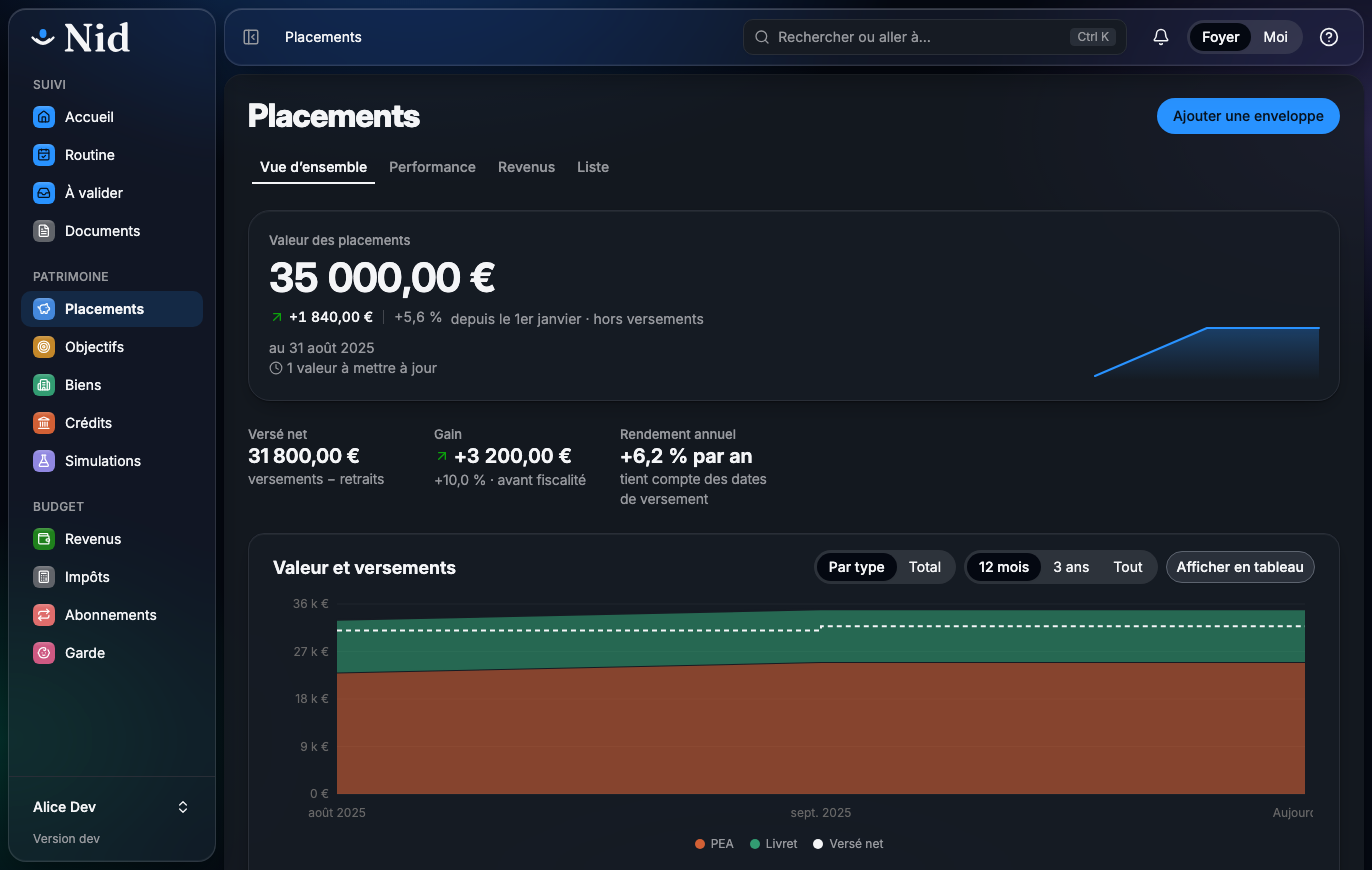
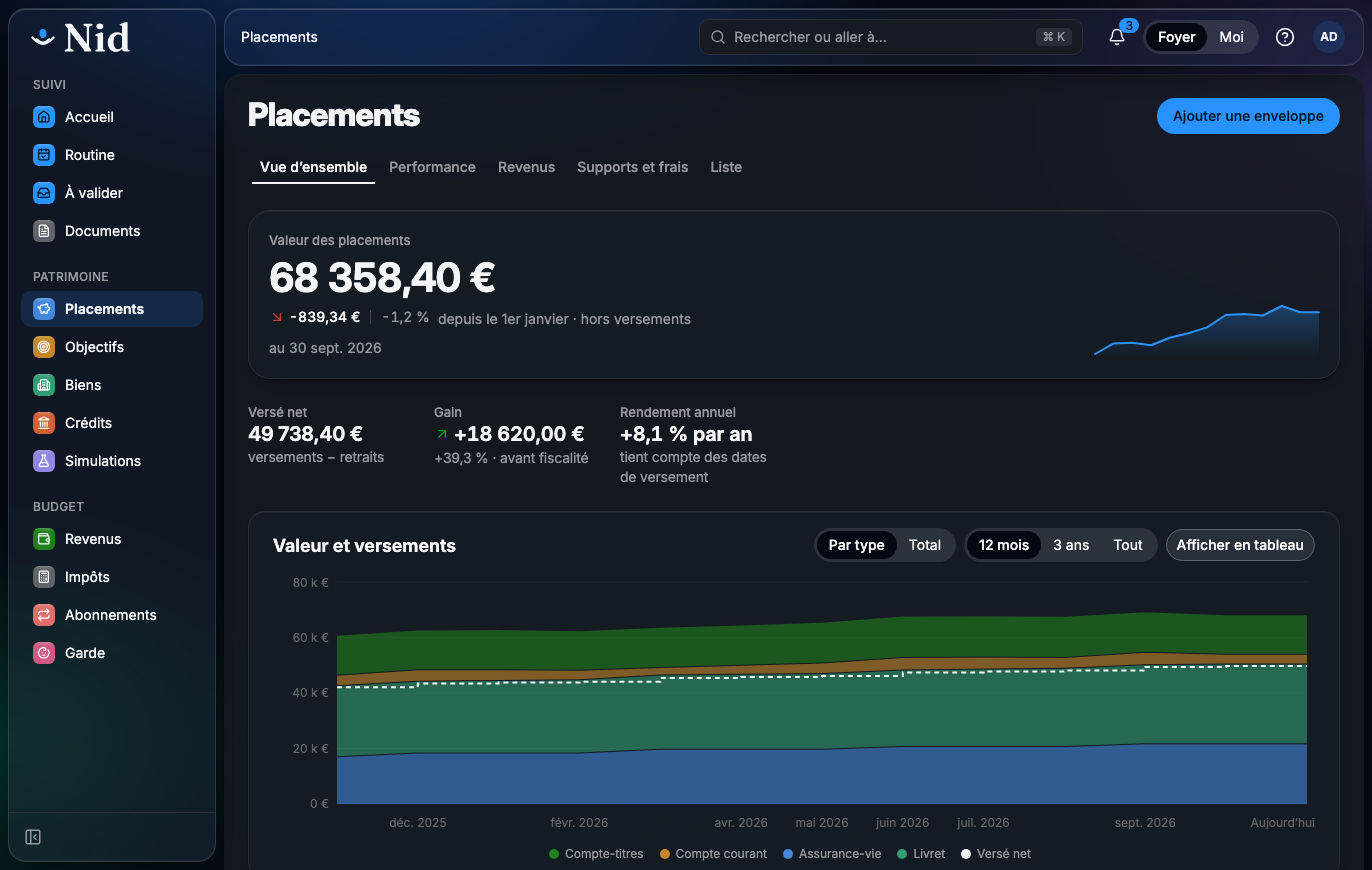
Docs: English README, CONTRIBUTING and SECURITY for the public repository (#33)
* README: in English, for an open-source project

What Nid is and is not, its features and rules, how to self-host it, how to develop on it, how it is built, how to contribute and report a vulnerability, and its license.

* CONTRIBUTING and SECURITY for the public repository

How to report issues and send pull requests (branches, titles, tests, changelog, versioning, code rules), and how to report a vulnerability privately, with what is in scope. The README points to both.

* Docs: current screenshots of the investments overview

Light and dark, at the same size, on the demo household: the tabs, the stat line and the chart by type as the app shows them today.

diff --git a/README.md b/README.md
@@ -1,48 +1,151 @@
 # Nid
 
-## Développement
+**A self-hosted overview of a household's finances: what you own, what is committed every month, what earns and what
+costs, and how it all moves over time.**
 
-Prérequis : SDK .NET 10 (voir `global.json`), CLI Aspire, Docker, Node.
+[![CI](https://github.com/Mistribe/Nid/actions/workflows/ci.yml/badge.svg)](https://github.com/Mistribe/Nid/actions/workflows/ci.yml)
+[![License: MIT](https://img.shields.io/badge/license-MIT-blue.svg)](LICENSE)
+
+<picture>
+  <source media="(prefers-color-scheme: dark)" srcset="docs/frontend/screens/overview-dark.png">
+  <img alt="The investments overview: total value, net contributions, gain, annual return and a chart of value and contributions" src="docs/frontend/screens/overview-light.png">
+</picture>
+
+Nid is not a budgeting or bookkeeping tool: day-to-day transactions stay in your banking app. It answers the questions
+those apps leave open:
+
+- **Where do we stand?** Net worth, by envelope and by owner (mine, yours, joint).
+- **What is committed each month?** Subscriptions, loans, insurance, childcare, and what is coming up next.
+- **What earns, what does not?** Gain and annual return of each investment, before and after fees.
+- **How does our loan work?** Interest and principal in each payment, balance left, total cost, early repayment.
+- **What is left each month?** Income, committed share, and the margin before everyday spending.
+
+It is built for **two adults sharing one household**, with children as dependents. Every item has owners and is either
+shared or private. A monthly routine of a few minutes keeps it current, instead of daily data entry.
+
+> [!NOTE]
+> Nid is built for one French household and is used every day. The interface is **in French only**, and the tax,
+> savings and childcare rules are **French** (income tax, PEA, PER, Livret A, Pajemploi). The API and data model change
+> without notice between versions.
+
+## Features
+
+| Area | What Nid does |
+|---|---|
+| Dashboard | Net worth and its trend, monthly income, commitments and what is left, what changed this month, what is coming up |
+| Subscriptions | Free trials, launch prices, prepaid terms, gift cards and bundles; amortized monthly and yearly cost; any currency, converted at ECB rates; a provider catalog with icons |
+| Investments | Envelopes (PEA, life insurance, PER, savings accounts, brokerage), valuations and flows, holdings and switches, money-weighted annual return, fees and their cost over 10 and 20 years, regulated savings ceilings |
+| Property and loans | Properties and their net value, a loan schedule engine checked against 3,000 reference loans, the bank's schedule side by side, early repayment and renegotiation simulations, rentals with rent revisions and receipts |
+| Income | Salaries and their phases, payslips, one-off income, withholding rate against the estimated real rate |
+| Tax | An estimate of French income tax for the household, the tax notices, and what-if simulations |
+| Childcare | A childminder's contract, monthly statements ready for Pajemploi, paid leave and the childcare tax credit |
+| Planning | Savings goals, a net worth projection, and what-if scenarios such as buying a property |
+| Documents | Files linked to the items they concern |
+| Bank sync | Balances and transactions through Enable Banking, or OFX and CAMT.053 statement files |
+| Assistant | An MCP server (`/mcp`) with read tools and write tools that only **propose**: every change from an assistant waits in « À valider » until a person approves it |
+
+A few rules hold everywhere:
+
+- **Amounts are computed by the server, deterministically.** An AI assistant may read and propose; it never computes a
+  gain, a return, a schedule or a tax.
+- **Every figure keeps its source**: entered by hand, imported, read from a bank, or proposed from a document.
+- **Your data stays yours**: self-hosted, a full export and import in one JSON file (`nid.data`), nightly encrypted
+  backups in the reference setup, and an audit log of every change and of security events.
+
+## Self-hosting
+
+You need Docker with Compose v2, two host names (for example `nid.example.org` and `auth.example.org`), a reverse
+proxy that terminates TLS, and a device able to create a **passkey**: sign-in goes through
+[Pocket ID](https://github.com/pocket-id/pocket-id), which only accepts passkeys.
+
+There is no public image yet: build it from this repository.
 
 ```bash
-aspire run                           # PostgreSQL, Pocket ID, API, frontend Vite, proxy TLS + tableau de bord
-pnpm --dir web e2e                   # parcours Playwright, connectés par l'API de Pocket ID
-dotnet test --solution Nid.slnx --max-parallel-test-modules 1   # tests unitaires et d'intégration (Docker requis), un projet à la fois
-dotnet test --project tests/Nid.RealEstate.IntegrationTests   # l'intégration d'un seul module
+docker build -f src/Nid.Host/Dockerfile -t nid:local .
 ```
 
-L'application se joint sur `https://nid.localtest.me` (Pocket ID sur `https://auth.localtest.me`). Au premier démarrage,
-un processus jetable (`pocket-id-bootstrap`) y crée les groupes `nid-users` et `nid-admins`, les trois utilisateurs de développement
-(`alice` administratrice, `bob`, `carol` sans accès) et le client de Nid ; ils se connectent par passkey ou, pour les tests,
-par un jeton à usage unique (`web/e2e/session.ts`).
-Journaux, traces et métriques : tableau de bord Aspire (URL affichée par `aspire run`).
-L'AppHost ne sert qu'au développement ; le déploiement est le compose de référence (`docs/architecture.md` §10).
+Then pick one of the two setups:
 
-Pour repartir d'une base vide : `docker volume rm nid-dev-pgdata nid-dev-pocket-id`.
+- **Standalone** ([`deploy/standalone/`](deploy/standalone/compose.yaml)): one Compose file and one `.env`, nothing to
+  run first. Postgres and Pocket ID are optional profiles, for when you already run them elsewhere. Set
+  `NID_IMAGE=nid:local` in `.env`.
 
-### Données de démonstration
+  ```bash
+  cd deploy/standalone
+  cp .env.example .env    # then fill it in, with NID_IMAGE=nid:local
+  docker compose --profile postgres --profile pocket-id up -d
+  ```
 
-`deploy/local/demo/` remplit les écrans d'un foyer fictif (Alice, Bob et Léa) : abonnements et assurance, comptes bancaires et
-opérations, placements et leur répartition, trois biens et trois crédits, revenus, garde, objectifs, avis d'impôt,
-simulations, documents et indice des prix. Ses dates finissent le mois dernier. La pile démarrée (`aspire run`) et Playwright installé (`pnpm --dir web install`) :
+- **Reference** ([`deploy/`](deploy/README.md)): Postgres, Pocket ID, Nid and an encrypted `restic` backup to a local and
+  an optional remote repository, with `deploy/setup.sh` to generate the secrets and `deploy/restore.sh` to restore.
+
+[`deploy/README.md`](deploy/README.md) covers the installation, updates, backups and bank sync in detail (in French).
+The first person to sign in becomes the administrator and admits the other adults.
+
+## Development
+
+Requirements: the .NET 10 SDK (see [`global.json`](global.json)), the [Aspire CLI](https://aspire.dev), Docker, and
+Node 24 or later with pnpm (`corepack enable`).
 
 ```bash
-node deploy/local/demo/load.mjs                 # connecte Bob puis Alice, importe les fichiers, puis le reste par l'API
-node deploy/local/demo/sign-in-link.mjs alice   # un lien à usage unique pour se connecter (les utilisateurs n'ont pas de passkey)
+aspire run                               # Postgres, Pocket ID, the API, the Vite front end, a TLS proxy and the Aspire dashboard
+pnpm --dir web install                   # front-end dependencies, exact versions from the lockfile
+pnpm --dir web check                     # types, lint, tests, build and the bundle budget
+pnpm --dir web e2e                       # Playwright journeys, signed in through Pocket ID's API
+dotnet test --solution Nid.slnx --configuration Release --max-parallel-test-modules 1   # unit and integration tests (Docker required)
+dotnet test --project tests/Nid.RealEstate.IntegrationTests                            # one module's integration tests
 ```
 
-La relancer ne change rien. Une base chargée un autre mois refuse le nouvel import (conflits) : repartir d'une base vide. Les
-fichiers `alice.nid.json` et `bob.nid.json` sortent de `node deploy/local/demo/generate.mjs`, leurs dates figées à octobre 2026 ;
-`DemoFileTests` vérifie qu'ils s'importent sans erreur ni avertissement, chaque section écrivant quelque chose.
+The app runs at `https://nid.localtest.me`, Pocket ID at `https://auth.localtest.me`, and the Aspire dashboard (logs,
+traces, metrics) at the URL `aspire run` prints. On first start, a one-off `pocket-id-bootstrap` process creates the
+`nid-users` and `nid-admins` groups, three development users (`alice`, administrator; `bob`; `carol`, without access)
+and Nid's OIDC client. To start again from an empty database: `docker volume rm nid-dev-pgdata nid-dev-pocket-id`.
 
-### Frontend (`web/`)
-
-Prérequis : Node ≥ 24 et pnpm 12 (`corepack enable`, ou installé à part).
+**Demo data.** [`deploy/local/demo/`](deploy/local/demo) fills every screen with an invented household (Alice, Bob and
+Léa): subscriptions, bank accounts, investments, three properties and three loans, income, childcare, goals, tax
+notices, scenarios and documents, dated up to last month. With the stack running and Playwright installed:
 
 ```bash
-pnpm --dir web install               # dépendances, versions exactes du lockfile
-pnpm --dir web check                 # typage, lint, tests, build et budget du bundle
+node deploy/local/demo/load.mjs                 # signs in as Bob, then Alice, and loads everything through the API
+node deploy/local/demo/sign-in-link.mjs alice   # a one-time sign-in link (the demo users have no passkey)
 ```
 
-`dotnet build` réécrit `web/src/api/openapi.json` ; lancer ensuite `pnpm --dir web gen:api` pour régénérer
-`web/src/api/schema.d.ts`, et versionner les deux avant de committer (la CI le vérifie avec `pnpm --dir web check:api`).
+**API client.** `dotnet build` rewrites [`web/src/api/openapi.json`](web/src/api/openapi.json); run
+`pnpm --dir web gen:api` to regenerate `web/src/api/schema.d.ts`, and commit both (CI checks them with
+`pnpm --dir web check:api`).
+
+## How it is built
+
+| Layer | Choice |
+|---|---|
+| Back end | .NET 10, ASP.NET Core minimal APIs, EF Core with Npgsql, NodaTime, Quartz.NET, [Synapse](https://github.com/UnambitiousFx/Synapse) for commands, queries and events |
+| Database | PostgreSQL, one schema per module |
+| Front end | React, TypeScript, Vite, Tailwind CSS and shadcn/ui, TanStack Query, a client generated from the OpenAPI document; installable as a PWA |
+| Identity | Pocket ID (OIDC, passkeys); the browser talks to a backend-for-frontend with a session cookie |
+| Assistant | The MCP C# SDK, on personal access tokens with scoped presets |
+
+Nid is a modular monolith: one process serves the web app, the API, the MCP endpoint and the scheduled jobs.
+
+```
+src/       Nid.<Module>.{Domain,Application,Contracts,Infrastructure} for each module (Subscriptions, Investments,
+           RealEstate, Income, Childcare, Goals, Documents, Banking), Nid.Core for what they share (people, items,
+           ownership, tax, dashboard, proposals), Nid.Platform, Nid.Host (the single executable) and Nid.AppHost (Aspire)
+web/       the React app
+tests/     unit and integration tests per module, and shared test vectors
+deploy/    the Compose setups, backups, and the demo household
+docs/      the design documents (in French): Project.md, architecture.md, the data models, roadmap.md
+```
+
+## Contributing
+
+Issues and pull requests are welcome, in English. [CONTRIBUTING.md](CONTRIBUTING.md) explains the templates, branch
+names, the tests to run before opening a pull request (CI does not run them), the changelog and how the version is
+set. Never paste real financial data, yours or anyone's: describe the shape of a problem with invented figures.
+
+## Security
+
+Do not report a vulnerability in a public issue: see [SECURITY.md](SECURITY.md) to report it privately.
+
+## License
+
+[MIT](LICENSE) © 2026 Mistribe

diff --git a/CONTRIBUTING.md b/CONTRIBUTING.md
@@ -1,0 +1,77 @@
+# Contributing to Nid
+
+Thank you for your interest. Nid is a personal project, built for one French household and maintained in its spare
+time: issues and pull requests are welcome, but please open an issue to discuss anything larger than a fix before you
+write the code, so that nobody spends time on a change that will not land.
+
+The development setup (Aspire, Docker, Node, the demo household) is in the [README](README.md#development).
+
+## Never share real financial data
+
+Not yours, not anyone's: no real amounts, balances, salaries, tax notices, contracts or account numbers, no real names,
+addresses or birth dates, no screenshots of a real instance. This holds for issues, pull requests, comments, commits,
+tests, fixtures and documentation alike. Describe the shape of a problem (« a savings account over its ceiling ») and
+use invented figures, or the demo household (Alice, Bob and Léa, in [`deploy/local/demo/`](deploy/local/demo)).
+
+## Issues
+
+Use one of the templates: **Bug report** for a defect, **Feature request** for anything else. Write in English and fill
+in every section. Check first that the issue does not already exist.
+
+To report a vulnerability, do not open an issue: see [SECURITY.md](SECURITY.md).
+
+## Pull requests
+
+1. **One concern per pull request.** List follow-ups under « Notes for the reviewer » rather than folding them in.
+2. **Branch name**: `<type>/<short-slug>` in kebab-case, with the issue number first when there is one:
+   `feat/249-catalog-includes`, `fix/tax-negative-rental-income`. Types: `feat`, `fix`, `docs`, `refactor`, `test`, `ci`,
+   `deps`, `chore`.
+3. **Title**: short, imperative, no trailing period, the area first when it helps (`Property screens: …`). The title
+   becomes the squash-merge commit, and it sets the next version (see below).
+4. **Description**: the [pull request template](.github/pull_request_template.md), in English, every section filled
+   in. Link the issue it resolves with `Closes #N`.
+5. **Tests**: CI builds and checks a pull request but does **not** run the tests. Run the ones for the areas you change
+   before opening it, and say so in the test plan:
+
+   ```bash
+   dotnet test --solution Nid.slnx --configuration Release --max-parallel-test-modules 1   # for src/ or tests/ (Docker required)
+   pnpm --dir web check                                                                   # for web/
+   ```
+
+   A pull request that only changes documentation or workflows has nothing to run.
+6. **Changelog**: a change the household would notice adds one file to [`web/changelog/`](web/changelog/README.md),
+   with a line in English and one in French (ask in the pull request if you need help with the French). A change it
+   would not notice (CI, refactoring, tests, docs) adds none; a maintainer then sets the `no-changelog` label.
+
+Maintainers add the labels (type, area, size) and merge with a squash.
+
+### Versioning
+
+Every push to `main` is a release: CI computes the version from the commit messages since the last tag, builds and
+tags it. A pull request title is a **patch** by default; `feat:` or `feat(area):` makes a **minor**; `!:` in the title
+(`feat!: …`) or `BREAKING CHANGE:` in the description makes a **major**. These markers are matched anywhere in the
+message, so do not write them unless the change deserves the bump.
+
+## Code
+
+- **Language**: code, comments, commit messages, pull requests and issues are in English. The interface is in French
+  (`web/src/locales/`). The design documents in [`docs/`](docs) are in French.
+- **Amounts are computed by the server.** The browser shows the server's figures and never does arithmetic on amounts
+  (the `nid/no-amount-arithmetic` lint rule). Money is `decimal` on the server and a decimal string on the wire.
+- **Modules own their data**: one PostgreSQL schema and one `DbContext` per module, and a module reaches another only
+  through its `Contracts` project.
+- **Web UI**: reach for a [shadcn/ui](https://ui.shadcn.com) component first (`pnpm dlx shadcn@latest add <name>` from
+  `web/`), never a native `<select>`, `<dialog>`, `<table>`, date or checkbox input outside `components/ui/`, and theme
+  tokens instead of Tailwind palette colours (`web/src/nativeControls.test.ts` checks both). New screens follow the page
+  grammar of [`docs/frontend/design-system.md`](docs/frontend/design-system.md) §6.1, with
+  `web/src/features/investments/EnvelopeDetailPage.tsx` as the reference.
+- **Bundle budget**: the initial JavaScript stays under 200 kB gzip (`pnpm --dir web budget`); pages are lazy routes.
+- **API contract**: after a change to the API, `dotnet build` rewrites `web/src/api/openapi.json`; run
+  `pnpm --dir web gen:api` and commit both files.
+
+The maintainers' complete working notes are in [`.claude/CLAUDE.md`](.claude/CLAUDE.md).
+
+## License
+
+By contributing, you agree that your contributions are licensed under the [MIT License](LICENSE), like the rest of the
+project.

diff --git a/SECURITY.md b/SECURITY.md
@@ -1,0 +1,48 @@
+# Security policy
+
+Nid holds a household's financial data, so security reports are welcome and taken seriously.
+
+## Reporting a vulnerability
+
+**Do not open a public issue, pull request or discussion.** Report it privately through GitHub:
+[Security › Report a vulnerability](https://github.com/Mistribe/Nid/security/advisories/new).
+
+Please include:
+
+- what an attacker can do, and what they need first (an account, a token, network access, a crafted file…);
+- the steps to reproduce it, on the demo household or invented data, never on a real instance's data;
+- the version (shown in the app's menu, or the image tag) or the commit;
+- a suggested fix, if you have one.
+
+Nid is maintained in spare time: we aim to acknowledge a report within a week, keep you informed while the fix is
+prepared, publish an advisory with the release that fixes it, and credit you unless you prefer otherwise.
+
+## Supported versions
+
+Only the latest release is supported: every merge to `main` is a release, and fixes land there. Update to the latest
+version before reporting, if you can.
+
+## Scope
+
+In scope, for example:
+
+- reading or changing another adult's **private** items, or anything without being signed in;
+- getting past sign-in, a session, CSRF protection, or the scopes of a personal access token;
+- making the MCP endpoint act beyond its token, or turning content an assistant reads (labels, documents, imported
+  data) into instructions it follows;
+- an import file, uploaded document or statement file that reads or writes what it should not, or runs code;
+- making the server send requests to a host it should not reach (SSRF), or leak secrets, tokens or bank sessions into
+  logs, traces, exports or backups;
+- a figure that can be falsified without the change showing in the audit log.
+
+Out of scope:
+
+- vulnerabilities in [Pocket ID](https://github.com/pocket-id/pocket-id), Enable Banking, PostgreSQL or other software
+  Nid relies on: report them to their maintainers;
+- an attacker with root access to the host, or control of the reverse proxy the host provides;
+- denial of service by volume;
+- findings that need an instance deployed against the advice of [`deploy/README.md`](deploy/README.md), for example
+  without TLS.
+
+The threat model, the trust boundaries and the decisions behind them are in [`docs/security/`](docs/security/README.md)
+(in French).
